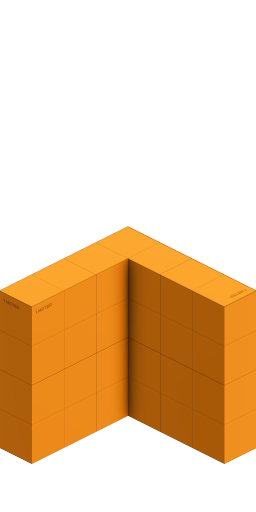
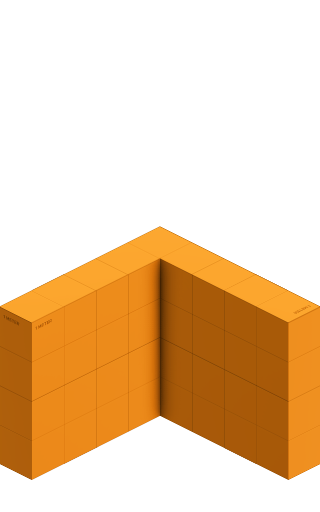
Corner assets expansion: wallCorner_SE/NW canvas 256→320 + adjusted texture_origin

diff --git a/expand_corner_assets.py b/expand_corner_assets.py
@@ -1,0 +1,55 @@
+#!/usr/bin/env python3
+"""
+Adjust wallCorner_SE and wallCorner_NW for expanded canvas (256→320px width).
+Updates texture_region_size and texture_origin to compensate the -32px shift.
+"""
+
+import re
+from pathlib import Path
+
+tileset_path = Path("/Volumes/Expansion/----- PESSOAL -----/PYTHON/INFILTRAITOR/godot/resources/tilesets/tileset_blocks.tres")
+
+with open(tileset_path, 'r') as f:
+    content = f.read()
+
+original_content = content
+
+# Search and replace for each corner asset
+# wallCorner_SE: texture_region_size + texture_origin + location of asset
+
+# Find and replace the TileSetAtlasSource blocks for each corner asset
+
+# wallCorner_SE - find the section starting with texture = ExtResource("120_j87jf")
+# and update texture_region_size from Vector2i(256, 512) to Vector2i(320, 512)
+pattern_se = r'(texture = ExtResource\("120_j87jf"\)\ntexture_region_size = )Vector2i\(256, 512\)'
+replacement_se = r'\1Vector2i(320, 512)'
+content = re.sub(pattern_se, replacement_se, content)
+
+# wallCorner_NW - find the section starting with texture = ExtResource("121_ap31o")
+pattern_nw = r'(texture = ExtResource\("121_ap31o"\)\ntexture_region_size = )Vector2i\(256, 512\)'
+replacement_nw = r'\1Vector2i(320, 512)'
+content = re.sub(pattern_nw, replacement_nw, content)
+
+# Update texture_origin for wallCorner_SE: (0, -400) → (-32, -400)
+content = re.sub(
+    r'(0:0/0/custom_data_0 = "wallCorner_SE"\n\s+0:0/0/custom_data_2 = true\n\s+0:0/0/)texture_origin = Vector2i\(0, -400\)',
+    r'\1texture_origin = Vector2i(-32, -400)',
+    content
+)
+
+# Update texture_origin for wallCorner_NW: (0, -368) → (-32, -368)
+content = re.sub(
+    r'(0:0/0/custom_data_0 = "wallCorner_NW"\n\s+0:0/0/custom_data_2 = true\n\s+0:0/0/)texture_origin = Vector2i\(0, -368\)',
+    r'\1texture_origin = Vector2i(-32, -368)',
+    content
+)
+
+if content != original_content:
+    with open(tileset_path, 'w') as f:
+        f.write(content)
+    print("✅ Updated wallCorner_SE and wallCorner_NW:")
+    print("  ✓ texture_region_size: 256×512 → 320×512")
+    print("  ✓ wallCorner_SE texture_origin: (0,-400) → (-32,-400)")
+    print("  ✓ wallCorner_NW texture_origin: (0,-368) → (-32,-368)")
+else:
+    print("⚠  No changes made")

diff --git a/fix_corner_origins.py b/fix_corner_origins.py
@@ -1,0 +1,42 @@
+#!/usr/bin/env python3
+"""
+Fix texture_origin for wallCorner_SE and wallCorner_NW
+"""
+
+import re
+from pathlib import Path
+
+tileset_path = Path("/Volumes/Expansion/----- PESSOAL -----/PYTHON/INFILTRAITOR/godot/resources/tilesets/tileset_blocks.tres")
+
+with open(tileset_path, 'r') as f:
+    lines = f.readlines()
+
+changes = 0
+
+for i in range(len(lines)):
+    # wallCorner_SE: find texture_origin = Vector2i(0, -400) that comes before custom_data_0 = "wallCorner_SE"
+    if 'custom_data_0 = "wallCorner_SE"' in lines[i]:
+        # Look backwards for the texture_origin
+        for j in range(i-1, max(0, i-15), -1):
+            if 'texture_origin = Vector2i(0, -400)' in lines[j]:
+                lines[j] = lines[j].replace('Vector2i(0, -400)', 'Vector2i(-32, -400)')
+                changes += 1
+                print("✓ wallCorner_SE texture_origin: (0,-400) → (-32,-400)")
+                break
+    
+    # wallCorner_NW: find texture_origin = Vector2i(0, -368) that comes before custom_data_0 = "wallCorner_NW"
+    if 'custom_data_0 = "wallCorner_NW"' in lines[i]:
+        # Look backwards for the texture_origin
+        for j in range(i-1, max(0, i-15), -1):
+            if 'texture_origin = Vector2i(0, -368)' in lines[j]:
+                lines[j] = lines[j].replace('Vector2i(0, -368)', 'Vector2i(-32, -368)')
+                changes += 1
+                print("✓ wallCorner_NW texture_origin: (0,-368) → (-32,-368)")
+                break
+
+if changes > 0:
+    with open(tileset_path, 'w') as f:
+        f.writelines(lines)
+    print(f"\n✅ Updated {changes} texture_origin values")
+else:
+    print("⚠  No changes made")
